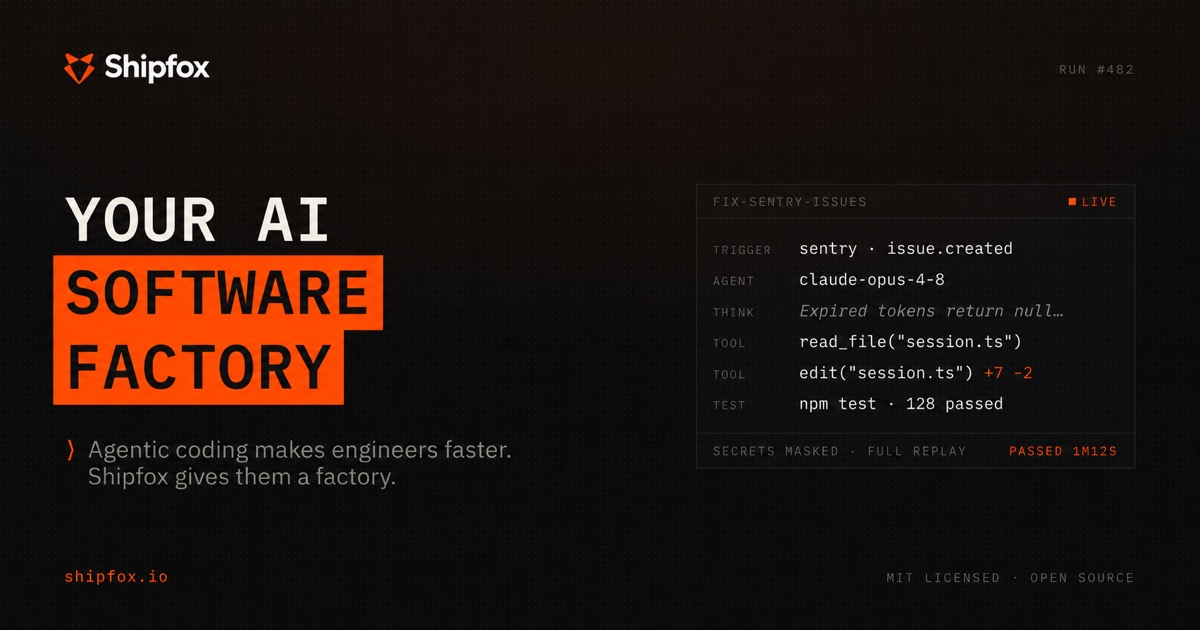
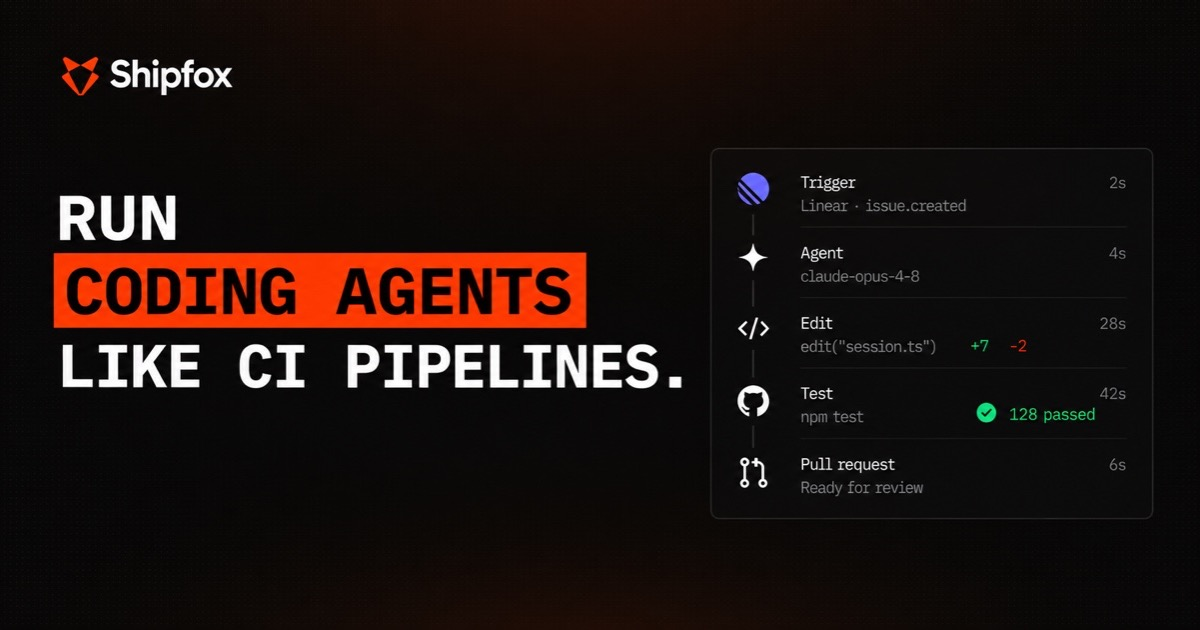
[docs] Reposition Shipfox as running coding agents like CI pipelines (#2253)
* Reposition Shipfox as running coding agents like CI pipelines

Replace the AI software factory headline, subtitle, and description on the
docs home, llms.txt, README, PRODUCT.md, and the docs writing guide. The
pitch is now a headline plus one description, so the subtitle constant is
removed.

* Update the Open Graph image to the new positioning

* Use the new designed Open Graph image

* Use a shorter search description for the docs home

* Clarify where the docs home descriptions are used

diff --git a/apps/docs/src/lib/product-definition.test.ts b/apps/docs/src/lib/product-definition.test.ts
@@ -8,12 +8,13 @@ import {
   PRODUCT_CATEGORY,
   PRODUCT_DESCRIPTION,
   PRODUCT_HEADLINE,
-  PRODUCT_SUBTITLE,
+  PRODUCT_META_DESCRIPTION,
 } from './product-definition';
 
 const repositoryRoot = fileURLToPath(new URL('../../../../', import.meta.url));
 const HOME_DESCRIPTION_PATTERN = /^description: "(.+)"$/m;
-const LLMS_PRODUCT_PITCH_PATTERN = /\$\{PRODUCT_SUBTITLE\} \$\{PRODUCT_DESCRIPTION\}/;
+const HOME_META_DESCRIPTION_PATTERN = /^metaDescription: "(.+)"$/m;
+const LLMS_PRODUCT_PITCH_PATTERN = /\$\{PRODUCT_HEADLINE\}\. \$\{PRODUCT_DESCRIPTION\}/;
 type TestPage = Parameters<typeof getLLMText>[0];
 
 function normalizeWhitespace(value: string): string {
@@ -29,18 +30,19 @@ test('keeps crawler-facing docs surfaces on the canonical product positioning', 
   const description = homeSource.match(HOME_DESCRIPTION_PATTERN)?.[1];
   assert.ok(description);
   assert.equal(description, PRODUCT_DESCRIPTION);
+  const metaDescription = homeSource.match(HOME_META_DESCRIPTION_PATTERN)?.[1];
+  assert.equal(metaDescription, PRODUCT_META_DESCRIPTION);
   assert.ok(homeSource.includes(`title: "${PRODUCT_HEADLINE}"`));
-  assert.ok(homeSource.includes(`**${PRODUCT_SUBTITLE}**`));
   assert.ok(normalizeWhitespace(homeSource).includes(PRODUCT_DESCRIPTION));
 
   const metadata = buildPageMetadata({
     url: '/',
-    data: {title: 'Shipfox', description},
+    data: {title: 'Shipfox', description, metaDescription},
   });
-  assert.equal(metadata.description, PRODUCT_DESCRIPTION);
-  assert.equal(metadata.openGraph?.description, PRODUCT_DESCRIPTION);
+  assert.equal(metadata.description, PRODUCT_META_DESCRIPTION);
+  assert.equal(metadata.openGraph?.description, PRODUCT_META_DESCRIPTION);
 
-  assert.ok(llmsRoute.includes('PRODUCT_SUBTITLE'));
+  assert.ok(llmsRoute.includes('PRODUCT_HEADLINE'));
   assert.ok(llmsRoute.includes('PRODUCT_DESCRIPTION'));
   assert.match(llmsRoute, LLMS_PRODUCT_PITCH_PATTERN);
 
@@ -61,6 +63,6 @@ test('records the canonical product pitch in the docs writing guide', async () =
 
   assert.ok(writingGuide.includes(`canonical product category is **${PRODUCT_CATEGORY}**`));
   assert.ok(writingGuide.includes(`> ${PRODUCT_HEADLINE}`));
-  assert.ok(writingGuide.includes(`> ${PRODUCT_SUBTITLE}`));
   assert.ok(normalizedWritingGuide.includes(PRODUCT_DESCRIPTION));
+  assert.ok(normalizedWritingGuide.includes(PRODUCT_META_DESCRIPTION));
 });

diff --git a/apps/docs/src/lib/page-metadata.ts b/apps/docs/src/lib/page-metadata.ts
@@ -6,6 +6,7 @@ type DocsPage = {
   data: {
     title: string;
     description?: string;
+    metaDescription?: string;
   };
 };
 
@@ -19,9 +20,10 @@ export function buildPageMetadata(
   // toUrl carries the /docs basePath, which Next does not apply to manually
   // built metadata URLs.
   const image = toUrl('/shipfox-og.jpg', origin, prefix);
+  const description = page.data.metaDescription ?? page.data.description;
   return {
     title,
-    description: page.data.description,
+    description,
     metadataBase: new URL(origin),
     alternates: {
       canonical: canonicalUrl,
@@ -29,14 +31,14 @@ export function buildPageMetadata(
     },
     openGraph: {
       title,
-      description: page.data.description,
+      description,
       url: canonicalUrl,
       images: [
         {
           url: image,
           width: 1200,
           height: 630,
-          alt: 'Shipfox: Your AI Software Factory',
+          alt: 'Shipfox: Run coding agents like CI pipelines',
         },
       ],
       siteName: 'Shipfox',
@@ -50,7 +52,7 @@ export function buildPageMetadata(
           url: image,
           width: 1200,
           height: 630,
-          alt: 'Shipfox: Your AI Software Factory',
+          alt: 'Shipfox: Run coding agents like CI pipelines',
         },
       ],
     },

diff --git a/apps/client/index.html b/apps/client/index.html
@@ -7,10 +7,10 @@
     <meta property="og:image:type" content="image/jpeg" />
     <meta property="og:image:width" content="1200" />
     <meta property="og:image:height" content="630" />
-    <meta property="og:image:alt" content="Shipfox: Your AI Software Factory" />
+    <meta property="og:image:alt" content="Shipfox: Run coding agents like CI pipelines" />
     <meta name="twitter:card" content="summary_large_image" />
     <meta name="twitter:image" content="https://app.shipfox.io/shipfox-og.jpg" />
-    <meta name="twitter:image:alt" content="Shipfox: Your AI Software Factory" />
+    <meta name="twitter:image:alt" content="Shipfox: Run coding agents like CI pipelines" />
     <!-- Runtime config, set before the app bundle loads. Served from public/ in
          dev; the Docker image rewrites it from environment at container start. -->
     <script src="/config.js"></script>

diff --git a/apps/docs/src/lib/product-definition.ts b/apps/docs/src/lib/product-definition.ts
@@ -1,9 +1,9 @@
 export const PRODUCT_CATEGORY = 'AI software factory';
 
-export const PRODUCT_HEADLINE = 'Your AI Software Factory';
+export const PRODUCT_HEADLINE = 'Run coding agents like CI pipelines';
 
-export const PRODUCT_SUBTITLE =
-  'Agentic coding makes engineers faster. Shipfox gives them a factory.';
+export const PRODUCT_META_DESCRIPTION =
+  "Turn tickets, alerts, and failed checks into workflows in your repo. Agents and your team's exact commands, delivered as PRs you review. Open source.";
 
 export const PRODUCT_DESCRIPTION =
-  'Shipfox is a platform for automating engineering work with AI agents. Turn tickets, alerts, and failed checks into work ready for review.';
+  'Turn tickets, alerts, and failed checks into workflows in your repo. Agents and the exact commands your team specifies, delivered as PRs you review. Any model, any stack. Open source.';

diff --git a/apps/docs/src/app/llms.txt/route.ts b/apps/docs/src/app/llms.txt/route.ts
@@ -1,6 +1,6 @@
 import {canonicalDocsUrl} from '@/lib/machine-readable';
 import {collectPageCatalog} from '@/lib/page-catalog';
-import {PRODUCT_DESCRIPTION, PRODUCT_SUBTITLE} from '@/lib/product-definition';
+import {PRODUCT_DESCRIPTION, PRODUCT_HEADLINE} from '@/lib/product-definition';
 
 export const revalidate = false;
 
@@ -8,7 +8,7 @@ export function GET() {
   const lines: string[] = [
     '# Shipfox Documentation',
     '',
-    `> ${PRODUCT_SUBTITLE} ${PRODUCT_DESCRIPTION}`,
+    `> ${PRODUCT_HEADLINE}. ${PRODUCT_DESCRIPTION}`,
     '',
   ];
 

diff --git a/apps/docs/source.config.ts b/apps/docs/source.config.ts
@@ -20,6 +20,8 @@ export const docs = defineDocs({
     schema: frontmatterSchema.extend({
       sidebarTitle: z.string().optional(),
       status: z.string().optional(),
+      // Search engine and link previews use this instead of `description` when set.
+      metaDescription: z.string().optional(),
       // Generated reference document ids, such as `integrations/jira/tools`.
       toolReference: z.string().optional(),
       eventReference: z.string().optional(),

diff --git a/PRODUCT.md b/PRODUCT.md
@@ -17,10 +17,11 @@ data density, unambiguous status, and no marketing fluff.
 
 ## Product Purpose
 
-Agentic coding makes engineers faster. Shipfox gives them a factory.
+Run coding agents like CI pipelines.
 
-Shipfox is a platform for automating engineering work with AI agents. Turn
-tickets, alerts, and failed checks into work ready for review.
+Turn tickets, alerts, and failed checks into workflows in your repo. Agents and
+the exact commands your team specifies, delivered as PRs you review. Any model,
+any stack. Open source.
 
 Workflows plug into the tools that power an engineering team, such as ticketing,
 monitoring, chat, and source control, through one secured layer. The same
@@ -103,11 +104,13 @@ Constraints:
 ## Brand Commitments
 
 - **Name:** Shipfox. Domain: shipfox.io.
-- **Headline:** "Your AI Software Factory."
-- **Subtitle:** "Agentic coding makes engineers faster. Shipfox gives them a
-  factory."
-- **Description:** "Shipfox is a platform for automating engineering work with
-  AI agents. Turn tickets, alerts, and failed checks into work ready for review."
+- **Headline:** "Run coding agents like CI pipelines."
+- **Description:** "Turn tickets, alerts, and failed checks into workflows in
+  your repo. Agents and the exact commands your team specifies, delivered as PRs
+  you review. Any model, any stack. Open source."
+- **Search description:** "Turn tickets, alerts, and failed checks into
+  workflows in your repo. Agents and your team's exact commands, delivered as
+  PRs you review. Open source."
 - **Voice:** direct, technical, no marketing fluff. Written for engineers who read
   logs at 2am. See `WRITING.md` and `apps/docs/WRITING.md` for repository prose
   conventions; product docs terminology there is binding.

diff --git a/apps/docs/WRITING.md b/apps/docs/WRITING.md
@@ -37,15 +37,16 @@ The canonical product category is **AI software factory**.
 
 Use this product headline on public overview surfaces:
 
-> Your AI Software Factory
+> Run coding agents like CI pipelines
 
-Use this subtitle with the headline:
+Follow the headline with this description. Also use it in machine-readable
+summaries such as `llms.txt`:
 
-> Agentic coding makes engineers faster. Shipfox gives them a factory.
+> Turn tickets, alerts, and failed checks into workflows in your repo. Agents and the exact commands your team specifies, delivered as PRs you review. Any model, any stack. Open source.
 
-Use this description in public metadata and machine-readable summaries:
+Use this shorter description for search engine and link previews:
 
-> Shipfox is a platform for automating engineering work with AI agents. Turn tickets, alerts, and failed checks into work ready for review.
+> Turn tickets, alerts, and failed checks into workflows in your repo. Agents and your team's exact commands, delivered as PRs you review. Open source.
 
 On overview pages, follow the headline with a literal product definition and
 one concrete example before introducing technical concepts. Describe who the

diff --git a/README.md b/README.md
@@ -1,5 +1,5 @@
 <div align="center">
-  <img width="1200" height="630" alt="Shipfox: Your AI Software Factory" src="apps/docs/public/shipfox-og.jpg" />
+  <img width="1200" height="630" alt="Shipfox: Run coding agents like CI pipelines" src="apps/docs/public/shipfox-og.jpg" />
 </div>
 
 <p align="center">
@@ -10,12 +10,11 @@
   <a href="CONTRIBUTING.md"><b>Contributing</b></a>
 </p>
 
-## Your AI Software Factory
+## Run coding agents like CI pipelines
 
-**Agentic coding makes engineers faster. Shipfox gives them a factory.**
-
-Shipfox is a platform for automating engineering work with AI agents. Turn
-tickets, alerts, and failed checks into work ready for review.
+Turn tickets, alerts, and failed checks into workflows in your repo. Agents and
+the exact commands your team specifies, delivered as PRs you review. Any model,
+any stack. Open source.
 
 Workflows live as YAML in your repository and react to events across your stack.
 Shipfox handles orchestration, secure tool access, isolated execution, and
